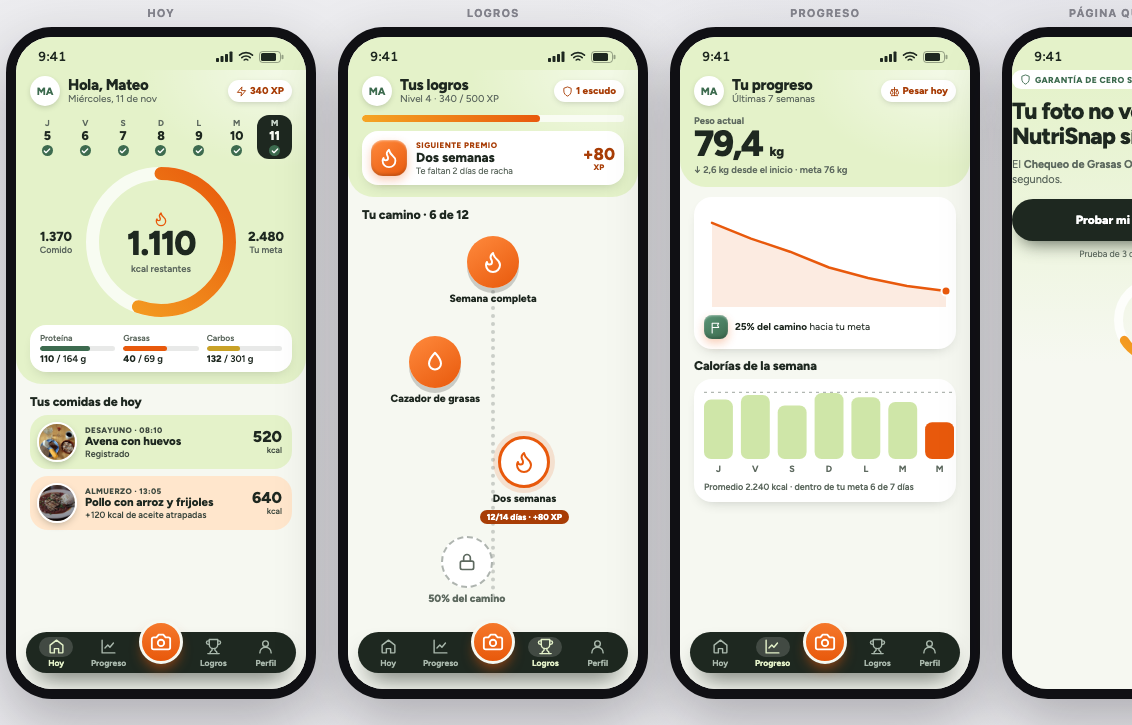
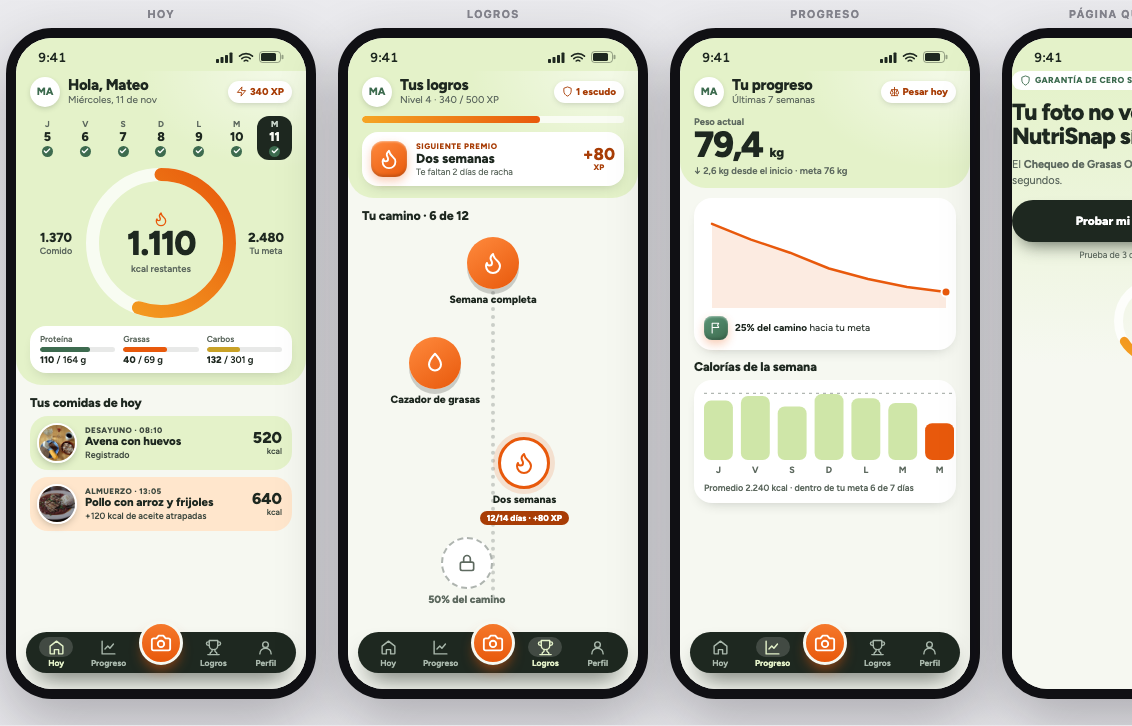
docs: combinación elegida (A + Hoy con foto + camino de logros) en la comparativa

diff --git a/direcciones-abc.html b/direcciones-abc.html
@@ -251,6 +251,49 @@
 .op-c .land .cta{background:var(--lim);color:#0F2A21;border-radius:16px;font-weight:700;font-size:12px;height:44px;margin-top:14px;box-shadow:0 12px 22px -10px rgb(215 242 92/.6)}
 .op-c .land .bl{display:grid;grid-template-columns:1.2fr 1fr;gap:8px;margin-top:20px}.op-c .land .bl div{border-radius:22px;padding:12px;font-size:9px;font-weight:600;color:#0F2A21}.op-c .land .bl b{display:block;font-size:26px;letter-spacing:-.05em;line-height:1}
 .op-c .land .b1{background:var(--cor)}.op-c .land .b2{background:#F3EEDC}
+
+.op-ab.foto .statusbar{position:absolute;left:0;right:0;top:0;z-index:5;color:#fff;background:transparent}
+.op-ab .pantalla{position:relative}
+.op-ab .foto-b{height:250px;background-size:cover;background-position:center;color:#fff;display:flex;flex-direction:column;justify-content:space-between;padding:38px 14px 28px}
+.op-ab .top-b{display:flex;justify-content:space-between;align-items:center}.op-ab .saludo{font-size:14px;font-weight:800;letter-spacing:-.02em}
+.op-ab .xpb{display:inline-flex;align-items:center;gap:3px;background:#fff;color:#A83D06;font-size:10px;font-weight:800;border-radius:99px;padding:5px 8px}
+.op-ab .num-b .k{font-size:10px;font-weight:600;opacity:.92}.op-ab .num-b .big{font-size:46px;font-weight:800;letter-spacing:-.05em;line-height:1}.op-ab .num-b .big small{font-size:15px;letter-spacing:0;font-weight:700}
+.op-ab .barra{height:6px;border-radius:9px;background:rgb(255 255 255/.3);margin-top:7px}.op-ab .barra u{display:block;height:100%;border-radius:9px;background:linear-gradient(90deg,#F5A524,#E8590C)}
+.op-ab .num-b .s{font-size:9.5px;opacity:.92;margin-top:4px;font-weight:600}
+.op-ab .hoja-b{background:var(--bg);margin-top:-18px;border-radius:26px 26px 0 0;padding:10px 14px 0;position:relative;flex:1}
+.op-ab .racha-fila{display:flex;align-items:center;gap:7px;background:linear-gradient(135deg,#FFF3E6,#FBE6CF);border:1px solid rgb(232 89 12/.25);border-radius:16px;padding:6px 9px}
+.op-ab .racha-fila span{display:flex;width:26px;height:26px;border-radius:9px;background:linear-gradient(145deg,#FF8A3D,#E8590C);align-items:center;justify-content:center}.op-ab .racha-fila b{flex:1;font-size:11.5px;font-weight:800;color:#5A2D05}.op-ab .racha-fila small{font-size:9px;font-weight:700;color:#7A4A1C}
+.op-ab .sem-b{display:grid;grid-template-columns:repeat(7,1fr);list-style:none;gap:3px;margin-top:8px}
+.op-ab .sem-b li{display:flex;flex-direction:column;align-items:center;gap:3px;font-size:8.5px;font-weight:700;color:var(--text-2)}
+.op-ab .sem-b i{display:flex;width:20px;height:20px;border-radius:99px;background:#3D6B4F;align-items:center;justify-content:center}
+.op-ab .macros-b{display:grid;grid-template-columns:repeat(3,1fr);gap:6px;margin-top:9px}
+.op-ab .mc{background:#fff;border-radius:14px;padding:6px 8px;box-shadow:0 6px 12px -8px rgb(30 40 32/.35)}
+.op-ab .mc b{display:block;font-size:13.5px;font-weight:800;letter-spacing:-.02em}.op-ab .mc small{font-size:8px;color:var(--text-2);font-weight:600}.op-ab .mc span{font-size:8.5px;color:var(--text-2);font-weight:700}
+.op-ab .mc u{display:block;height:4px;border-radius:9px;background:#E4EADD;margin-top:3px;overflow:hidden}.op-ab .mc s{display:block;height:100%;border-radius:9px}
+.op-ab .sec-b{font-size:12px;font-weight:800;margin:9px 0 3px}
+.op-ab .fila{display:flex;align-items:center;gap:9px;padding:5px 0;border-bottom:1px solid #E4EADD}
+.op-ab .fila img{width:36px;height:36px;border-radius:99px;object-fit:cover;border:2px solid #fff;box-shadow:0 3px 7px -3px rgb(30 40 32/.4)}.op-ab .fila>div{flex:1;min-width:0}
+.op-ab .fila .n{font-size:11px;font-weight:800;line-height:1.2}.op-ab .fila .s{font-size:8.5px;color:var(--text-2)}.op-ab .fila .s em{font-style:normal;color:#A83D06;font-weight:700}.op-ab .fila>b{font-size:13px;font-weight:800}
+.op-ab .foto-c{height:210px;background-size:cover;background-position:center;padding:38px 12px 0}
+.op-ab .chip-ck{display:inline-flex;align-items:center;gap:4px;background:#fff;color:#A83D06;font-size:9px;font-weight:800;border-radius:99px;padding:5px 9px}
+.op-ab .hoja-c{background:var(--bg);margin-top:-22px;border-radius:26px 26px 0 0;padding:12px 14px 0;position:relative;flex:1}
+.op-ab .hoja-c .n{font-size:15px;font-weight:800;letter-spacing:-.02em}
+.op-ab .hoja-c .kc{font-size:10px;font-weight:600;color:var(--text-2);margin-top:2px;display:flex;align-items:baseline;gap:4px;flex-wrap:wrap}.op-ab .hoja-c .kc b{font-size:30px;font-weight:800;letter-spacing:-.04em;color:var(--ink);line-height:1}
+.op-ab .hoja-c .kc em{font-style:normal;display:inline-flex;align-items:center;gap:2px;background:#E8590C;color:#fff;font-size:8.5px;font-weight:800;border-radius:99px;padding:3px 7px}
+.op-ab .preg{background:#fff;border-radius:18px;padding:10px;margin-top:9px;box-shadow:0 6px 14px -8px rgb(30 40 32/.3)}.op-ab .preg .q{font-size:11.5px;font-weight:800}
+.op-ab .pills{display:flex;gap:5px;margin-top:7px}.op-ab .pills span{flex:1;text-align:center;font-size:9px;font-weight:700;border-radius:99px;padding:7px 2px;background:#F0F4EA;color:var(--text-2)}.op-ab .pills span.sel{background:#E8590C;color:#fff;box-shadow:0 6px 10px -5px rgb(232 89 12/.8)}
+.op-ab .preg .s{font-size:8.5px;color:var(--text-2);margin-top:6px}
+.op-ab .m3{display:grid;grid-template-columns:repeat(3,1fr);gap:6px;margin-top:8px}.op-ab .m3 div{background:#E4F2C9;border-radius:14px;padding:6px;text-align:center}.op-ab .m3 b{display:block;font-size:15px;font-weight:800}.op-ab .m3 small{font-size:8px;color:#3F4A40;font-weight:700}
+.op-ab .cta-oscuro{background:#1E2820;color:#fff;border-radius:99px;font-size:11.5px;font-weight:800;height:40px;margin-top:9px;display:flex;align-items:center;justify-content:center;box-shadow:0 10px 16px -8px rgb(30 40 32/.7)}
+.op-ab .camino-w{position:relative;height:410px;margin:0 -2px}.op-ab .camino-w .trazo{position:absolute;inset:0;width:100%;height:100%}
+.op-ab .camino-w ol{list-style:none}.op-ab .camino-w li{position:absolute;transform:translate(-50%,-50%);text-align:center;width:108px}
+.op-ab .camino-w li span{position:relative;display:flex;width:54px;height:54px;border-radius:99px;margin:0 auto;align-items:center;justify-content:center}
+.op-ab .n-ok span{background:linear-gradient(145deg,#FF8A3D,#E8590C);box-shadow:0 5px 0 rgb(0 0 0/.18)}
+.op-ab .n-now span{background:#fff;border:3px solid #E8590C;box-shadow:0 0 0 5px rgb(232 89 12/.15)}
+.op-ab .n-lock span{background:#fff;border:2px dashed rgb(94 106 96/.5);color:var(--text-2)}
+.op-ab .ck{position:absolute;right:-3px;bottom:-3px;width:19px;height:19px;border-radius:99px;background:#2F5640;border:2px solid var(--bg);display:flex;align-items:center;justify-content:center}
+.op-ab .camino-w b{display:block;font-size:10.5px;font-weight:800;margin-top:4px;line-height:1.15}.op-ab .n-lock b{color:var(--text-2)}
+.op-ab .pill{display:inline-block;margin-top:3px;background:#A83D06;color:#fff;font-size:8.5px;font-weight:800;border-radius:99px;padding:2px 7px}
 </style>
 </head>
 <body>
@@ -266,7 +309,43 @@
 </header>
 <p class="aviso-fuentes">Ábrelo con conexión a internet para ver las letras. Cada panel muestra el nombre de su fuente escrito en ella misma.</p>
 <div class="opciones">
-<section class="opcion banda op-a-s" aria-label="Opción A"><div class="meta"><h2><span class="letra">A</span> Lima fresca</h2><p class="direccion">Todo parte de una cabecera de color suave con tu semana y un anillo enorme que dice cuántas calorías te quedan. Las comidas son tarjetas de colores con su foto en círculo. La barra de abajo es oscura y flotante, con el botón naranja de registrar.</p>
+<section class="opcion banda op-ab-s" aria-label="Opción B"><div class="meta"><h2><span class="letra">★</span> Tu combinación</h2><p class="direccion">Los colores y la letra de la A (lima, verde y naranja, Figtree). El Hoy con foto grande a pantalla completa como la B. Los logros como el camino que ya teníamos, que se va desbloqueando. Progreso y la página de ventas, como la A.</p>
+<p class="hipotesis"><strong>De tus referencias:</strong> ILABS (colores, letra, barra oscura) + Caltalk y Nutrilens (foto de comida protagonista en Hoy) + el camino de logros estilo Duolingo que ya aprobaste.</p>
+<p class="hipotesis"><strong>Por qué convertiría:</strong> Es la mezcla que pediste: lo que más te gustó de cada una, y se ve como una sola app en todas las pantallas.</p>
+<ul class="tokens"><li>--bg #F6F8F1 · lima #E4F2C9 · tinta #1E2820</li><li>naranja #E8590C · verde #3D6B4F · radios 18/26</li></ul><div class="paleta" aria-hidden="true"><span style="background:#E4F2C9"></span><span style="background:#F6F8F1"></span><span style="background:#1E2820"></span><span style="background:#3D6B4F"></span><span style="background:#E8590C"></span></div>
+<div class="especimen"><p class="esp-display" style="font-family:'Figtree',monospace">Figtree — AaBbÑñ 0123</p><p class="esp-body" style="font-family:'Figtree',monospace">Una sola familia redonda en 600-800: números grandes y texto amable.</p></div></div><div class="fila-frames"><div class="tel-wrap"><p class="rotulo-frame">Hoy</p><div class="telefono op-a op-ab foto"><div class="statusbar"><span>9:41</span><span class="der">
+<svg width="17" height="11" viewBox="0 0 17 11" fill="currentColor" aria-hidden="true"><rect x="0" y="7" width="3" height="4" rx="0.8"/><rect x="4.5" y="5" width="3" height="6" rx="0.8"/><rect x="9" y="3" width="3" height="8" rx="0.8"/><rect x="13.5" y="0.5" width="3" height="10.5" rx="0.8"/></svg>
+<svg width="16" height="11" viewBox="0 0 16 11" fill="none" stroke="currentColor" stroke-width="1.6" stroke-linecap="round" aria-hidden="true"><path d="M1.5 4.2a9.5 9.5 0 0 1 13 0"/><path d="M3.8 6.6a6.2 6.2 0 0 1 8.4 0"/><path d="M6.2 9a2.8 2.8 0 0 1 3.6 0"/></svg>
+<svg width="25" height="12" viewBox="0 0 25 12" aria-hidden="true"><rect x="0.5" y="0.5" width="21" height="11" rx="3" fill="none" stroke="currentColor" opacity="0.4"/><rect x="2" y="2" width="15" height="8" rx="1.6" fill="currentColor"/><rect x="22.5" y="3.8" width="2" height="4.4" rx="1" fill="currentColor" opacity="0.4"/></svg>
+</span></div><div class="pantalla"><div class="foto-b" style="background-image:linear-gradient(180deg,rgb(30 40 32/.55),rgb(30 40 32/.05) 45%,rgb(30 40 32/.8)),url(public/fotos/pollo.jpg)">
+<div class="top-b"><span class="saludo">Hola, Mateo</span><span class="xpb"><svg width="11" height="11" viewBox="0 0 24 24" fill="none" stroke="currentColor" stroke-width="2" stroke-linecap="round" stroke-linejoin="round" aria-hidden="true"><path d="M13 2 3 14h9l-1 8 10-12h-9z"/></svg>340 XP</span></div>
+<div class="num-b"><p class="k">Te quedan hoy</p><p class="big">1.110 <small>kcal</small></p><div class="barra"><u style="width:55%"></u></div><p class="s">Comiste 1.370 de 2.480 kcal</p></div></div>
+<div class="hoja-b"><div class="racha-fila"><span><svg width="15" height="15" viewBox="0 0 24 24" fill="none" stroke="#fff" stroke-width="2" stroke-linecap="round" stroke-linejoin="round" aria-hidden="true"><path d="M8.5 14.5A2.5 2.5 0 0 0 11 12c0-1.38-.5-2-1-3-1.07-2.14-.22-4.05 2-6 .5 2.5 2 4.9 4 6.5 2 1.6 3 3.5 3 5.5a7 7 0 1 1-14 0c0-1.15.43-2.29 1-3a2.5 2.5 0 0 0 2.5 2.5z"/></svg></span><b>12 días seguidos</b><small>1 escudo</small></div><ol class="sem-b"><li><b>J</b><i><svg width="9" height="9" viewBox="0 0 24 24" fill="none" stroke="#fff" stroke-width="3.5" stroke-linecap="round" stroke-linejoin="round" aria-hidden="true"><path d="M20 6 9 17l-5-5"/></svg></i></li><li><b>V</b><i><svg width="9" height="9" viewBox="0 0 24 24" fill="none" stroke="#fff" stroke-width="3.5" stroke-linecap="round" stroke-linejoin="round" aria-hidden="true"><path d="M20 6 9 17l-5-5"/></svg></i></li><li><b>S</b><i><svg width="9" height="9" viewBox="0 0 24 24" fill="none" stroke="#fff" stroke-width="3.5" stroke-linecap="round" stroke-linejoin="round" aria-hidden="true"><path d="M20 6 9 17l-5-5"/></svg></i></li><li><b>D</b><i><svg width="9" height="9" viewBox="0 0 24 24" fill="none" stroke="#fff" stroke-width="3.5" stroke-linecap="round" stroke-linejoin="round" aria-hidden="true"><path d="M20 6 9 17l-5-5"/></svg></i></li><li><b>L</b><i><svg width="9" height="9" viewBox="0 0 24 24" fill="none" stroke="#fff" stroke-width="3.5" stroke-linecap="round" stroke-linejoin="round" aria-hidden="true"><path d="M20 6 9 17l-5-5"/></svg></i></li><li><b>M</b><i><svg width="9" height="9" viewBox="0 0 24 24" fill="none" stroke="#fff" stroke-width="3.5" stroke-linecap="round" stroke-linejoin="round" aria-hidden="true"><path d="M20 6 9 17l-5-5"/></svg></i></li><li><b>M</b><i><svg width="9" height="9" viewBox="0 0 24 24" fill="none" stroke="#fff" stroke-width="3.5" stroke-linecap="round" stroke-linejoin="round" aria-hidden="true"><path d="M20 6 9 17l-5-5"/></svg></i></li></ol><div class="macros-b"><div class="mc"><b>110<small>/164 g</small></b><span>Proteína</span><u><s style="width:67%;background:#3D6B4F"></s></u></div><div class="mc"><b>40<small>/69 g</small></b><span>Grasas</span><u><s style="width:58%;background:#E8590C"></s></u></div><div class="mc"><b>132<small>/301 g</small></b><span>Carbos</span><u><s style="width:44%;background:#C9A227"></s></u></div></div><p class="sec-b">Hoy comiste</p><div class="fila"><img src="public/fotos/desayuno.jpg" alt=""><div><p class="n">Avena con huevos</p><p class="s">Desayuno · 08:10</p></div><b>520</b></div><div class="fila"><img src="public/fotos/pollo.jpg" alt=""><div><p class="n">Pollo con arroz y frijoles</p><p class="s">Almuerzo · 13:05 · <em>+120 kcal de aceite atrapadas</em></p></div><b>640</b></div><div class="fila"><img src="public/fotos/batido.jpg" alt=""><div><p class="n">Batido de proteína</p><p class="s">Merienda · 16:30</p></div><b>210</b></div></div><nav class="nav-a"><span class="on"><i><svg width="17" height="17" viewBox="0 0 24 24" fill="none" stroke="currentColor" stroke-width="2" stroke-linecap="round" stroke-linejoin="round" aria-hidden="true"><path d="m3 10 9-7 9 7v10a1 1 0 0 1-1 1h-5v-6H9v6H4a1 1 0 0 1-1-1z"/></svg></i>Hoy</span><span class=""><i><svg width="17" height="17" viewBox="0 0 24 24" fill="none" stroke="currentColor" stroke-width="2" stroke-linecap="round" stroke-linejoin="round" aria-hidden="true"><path d="M3 3v18h18"/><path d="M7 14l4-4 3 3 5-6"/></svg></i>Progreso</span><span class="fab-a"><svg width="22" height="22" viewBox="0 0 24 24" fill="none" stroke="#fff" stroke-width="2" stroke-linecap="round" stroke-linejoin="round" aria-hidden="true"><path d="M14.5 4h-5L7 7H4a2 2 0 0 0-2 2v9a2 2 0 0 0 2 2h16a2 2 0 0 0 2-2V9a2 2 0 0 0-2-2h-3z"/><circle cx="12" cy="13" r="3.5"/></svg></span><span class=""><i><svg width="17" height="17" viewBox="0 0 24 24" fill="none" stroke="currentColor" stroke-width="2" stroke-linecap="round" stroke-linejoin="round" aria-hidden="true"><path d="M6 9H4.5a2.5 2.5 0 0 1 0-5H6"/><path d="M18 9h1.5a2.5 2.5 0 0 0 0-5H18"/><path d="M4 22h16"/><path d="M10 14.66V17c0 .55-.47.98-.97 1.21C7.85 18.75 7 20.24 7 22"/><path d="M14 14.66V17c0 .55.47.98.97 1.21C16.15 18.75 17 20.24 17 22"/><path d="M18 2H6v7a6 6 0 0 0 12 0z"/></svg></i>Logros</span><span class=""><i><svg width="17" height="17" viewBox="0 0 24 24" fill="none" stroke="currentColor" stroke-width="2" stroke-linecap="round" stroke-linejoin="round" aria-hidden="true"><circle cx="12" cy="8" r="4"/><path d="M4 21a8 8 0 0 1 16 0"/></svg></i>Perfil</span></nav></div><div class="home-indicator"></div></div></div><div class="tel-wrap"><p class="rotulo-frame">El Chequeo en acción</p><div class="telefono op-a op-ab foto"><div class="statusbar"><span>9:41</span><span class="der">
+<svg width="17" height="11" viewBox="0 0 17 11" fill="currentColor" aria-hidden="true"><rect x="0" y="7" width="3" height="4" rx="0.8"/><rect x="4.5" y="5" width="3" height="6" rx="0.8"/><rect x="9" y="3" width="3" height="8" rx="0.8"/><rect x="13.5" y="0.5" width="3" height="10.5" rx="0.8"/></svg>
+<svg width="16" height="11" viewBox="0 0 16 11" fill="none" stroke="currentColor" stroke-width="1.6" stroke-linecap="round" aria-hidden="true"><path d="M1.5 4.2a9.5 9.5 0 0 1 13 0"/><path d="M3.8 6.6a6.2 6.2 0 0 1 8.4 0"/><path d="M6.2 9a2.8 2.8 0 0 1 3.6 0"/></svg>
+<svg width="25" height="12" viewBox="0 0 25 12" aria-hidden="true"><rect x="0.5" y="0.5" width="21" height="11" rx="3" fill="none" stroke="currentColor" opacity="0.4"/><rect x="2" y="2" width="15" height="8" rx="1.6" fill="currentColor"/><rect x="22.5" y="3.8" width="2" height="4.4" rx="1" fill="currentColor" opacity="0.4"/></svg>
+</span></div><div class="pantalla"><div class="foto-c" style="background-image:linear-gradient(180deg,rgb(30 40 32/.45),rgb(30 40 32/0) 40%),url(public/fotos/pollo.jpg)"><span class="chip-ck"><svg width="11" height="11" viewBox="0 0 24 24" fill="none" stroke="#E8590C" stroke-width="2" stroke-linecap="round" stroke-linejoin="round" aria-hidden="true"><path d="M12 2.7s6 6.3 6 10.8a6 6 0 0 1-12 0c0-4.5 6-10.8 6-10.8z"/></svg>Chequeo de Grasas Ocultas</span></div>
+<div class="hoja-c"><p class="n">Pollo con arroz y frijoles</p><p class="kc"><b>640</b> kcal <em><svg width="10" height="10" viewBox="0 0 24 24" fill="none" stroke="#fff" stroke-width="3" stroke-linecap="round" stroke-linejoin="round" aria-hidden="true"><path d="M12 5v14M5 12h14"/></svg>120 de aceite atrapadas</em></p>
+<div class="preg"><p class="q">¿Cuánto aceite usaste al cocinar?</p><div class="pills"><span class="">Nada</span><span class="">1 cucharada</span><span class="sel">2 cucharadas</span></div><p class="s">Te lo preguntamos porque la foto no puede verlo.</p></div>
+<div class="m3"><div><b>52</b><small>Proteína g</small></div><div><b>62</b><small>Carbos g</small></div><div><b>18</b><small>Grasas g</small></div></div>
+<div class="cta-oscuro">Guardar comida · +10 XP</div></div><nav class="nav-a"><span class="on"><i><svg width="17" height="17" viewBox="0 0 24 24" fill="none" stroke="currentColor" stroke-width="2" stroke-linecap="round" stroke-linejoin="round" aria-hidden="true"><path d="m3 10 9-7 9 7v10a1 1 0 0 1-1 1h-5v-6H9v6H4a1 1 0 0 1-1-1z"/></svg></i>Hoy</span><span class=""><i><svg width="17" height="17" viewBox="0 0 24 24" fill="none" stroke="currentColor" stroke-width="2" stroke-linecap="round" stroke-linejoin="round" aria-hidden="true"><path d="M3 3v18h18"/><path d="M7 14l4-4 3 3 5-6"/></svg></i>Progreso</span><span class="fab-a"><svg width="22" height="22" viewBox="0 0 24 24" fill="none" stroke="#fff" stroke-width="2" stroke-linecap="round" stroke-linejoin="round" aria-hidden="true"><path d="M14.5 4h-5L7 7H4a2 2 0 0 0-2 2v9a2 2 0 0 0 2 2h16a2 2 0 0 0 2-2V9a2 2 0 0 0-2-2h-3z"/><circle cx="12" cy="13" r="3.5"/></svg></span><span class=""><i><svg width="17" height="17" viewBox="0 0 24 24" fill="none" stroke="currentColor" stroke-width="2" stroke-linecap="round" stroke-linejoin="round" aria-hidden="true"><path d="M6 9H4.5a2.5 2.5 0 0 1 0-5H6"/><path d="M18 9h1.5a2.5 2.5 0 0 0 0-5H18"/><path d="M4 22h16"/><path d="M10 14.66V17c0 .55-.47.98-.97 1.21C7.85 18.75 7 20.24 7 22"/><path d="M14 14.66V17c0 .55.47.98.97 1.21C16.15 18.75 17 20.24 17 22"/><path d="M18 2H6v7a6 6 0 0 0 12 0z"/></svg></i>Logros</span><span class=""><i><svg width="17" height="17" viewBox="0 0 24 24" fill="none" stroke="currentColor" stroke-width="2" stroke-linecap="round" stroke-linejoin="round" aria-hidden="true"><circle cx="12" cy="8" r="4"/><path d="M4 21a8 8 0 0 1 16 0"/></svg></i>Perfil</span></nav></div><div class="home-indicator"></div></div></div><div class="tel-wrap"><p class="rotulo-frame">Logros</p><div class="telefono op-a op-ab"><div class="statusbar"><span>9:41</span><span class="der">
+<svg width="17" height="11" viewBox="0 0 17 11" fill="currentColor" aria-hidden="true"><rect x="0" y="7" width="3" height="4" rx="0.8"/><rect x="4.5" y="5" width="3" height="6" rx="0.8"/><rect x="9" y="3" width="3" height="8" rx="0.8"/><rect x="13.5" y="0.5" width="3" height="10.5" rx="0.8"/></svg>
+<svg width="16" height="11" viewBox="0 0 16 11" fill="none" stroke="currentColor" stroke-width="1.6" stroke-linecap="round" aria-hidden="true"><path d="M1.5 4.2a9.5 9.5 0 0 1 13 0"/><path d="M3.8 6.6a6.2 6.2 0 0 1 8.4 0"/><path d="M6.2 9a2.8 2.8 0 0 1 3.6 0"/></svg>
+<svg width="25" height="12" viewBox="0 0 25 12" aria-hidden="true"><rect x="0.5" y="0.5" width="21" height="11" rx="3" fill="none" stroke="currentColor" opacity="0.4"/><rect x="2" y="2" width="15" height="8" rx="1.6" fill="currentColor"/><rect x="22.5" y="3.8" width="2" height="4.4" rx="1" fill="currentColor" opacity="0.4"/></svg>
+</span></div><div class="pantalla"><div class="head-a h2"><div class="top-a"><span class="av">MA</span><div><h3>Tus logros</h3><p>Nivel 4 · 340 / 500 XP</p></div><span class="xp"><svg width="11" height="11" viewBox="0 0 24 24" fill="none" stroke="currentColor" stroke-width="2" stroke-linecap="round" stroke-linejoin="round" aria-hidden="true"><path d="M12 2 4 5v6c0 5 3.4 9.4 8 11 4.6-1.6 8-6 8-11V5z"/></svg>1 escudo</span></div>
+<div class="sig-a"><span class="chip3d"><svg width="22" height="22" viewBox="0 0 24 24" fill="none" stroke="#fff" stroke-width="2" stroke-linecap="round" stroke-linejoin="round" aria-hidden="true"><path d="M8.5 14.5A2.5 2.5 0 0 0 11 12c0-1.38-.5-2-1-3-1.07-2.14-.22-4.05 2-6 .5 2.5 2 4.9 4 6.5 2 1.6 3 3.5 3 5.5a7 7 0 1 1-14 0c0-1.15.43-2.29 1-3a2.5 2.5 0 0 0 2.5 2.5z"/></svg></span><div><p class="k">Siguiente premio</p><p class="n">Dos semanas</p><p class="s">Te faltan 2 días de racha</p></div><b>+80<small>XP</small></b></div></div>
+<div class="cuerpo-a"><p class="sec-a">Tu camino · 6 de 12</p><div class="camino-w"><svg viewBox="0 0 300 414" class="trazo" aria-hidden="true"><path d="M150 36 C150 81.1, 78 72.9, 78 118" fill="none" stroke-linecap="round" stroke="#F6B073" stroke-width="8" /><path d="M78 118 C78 163.1, 150 154.9, 150 200" fill="none" stroke-linecap="round" stroke="#F6B073" stroke-width="8" /><path d="M150 200 C150 245.1, 222 236.9, 222 282" fill="none" stroke-linecap="round" stroke="rgb(120 130 124/.3)" stroke-width="6" stroke-dasharray="2 12"/><path d="M222 282 C222 327.1, 150 318.9, 150 364" fill="none" stroke-linecap="round" stroke="rgb(120 130 124/.3)" stroke-width="6" stroke-dasharray="2 12"/></svg><ol><li class="n-ok" style="left:50.0%;top:36px"><span><svg width="24" height="24" viewBox="0 0 24 24" fill="none" stroke="#fff" stroke-width="2" stroke-linecap="round" stroke-linejoin="round" aria-hidden="true"><path d="M8.5 14.5A2.5 2.5 0 0 0 11 12c0-1.38-.5-2-1-3-1.07-2.14-.22-4.05 2-6 .5 2.5 2 4.9 4 6.5 2 1.6 3 3.5 3 5.5a7 7 0 1 1-14 0c0-1.15.43-2.29 1-3a2.5 2.5 0 0 0 2.5 2.5z"/></svg><i class="ck"><svg width="10" height="10" viewBox="0 0 24 24" fill="none" stroke="#fff" stroke-width="3.6" stroke-linecap="round" stroke-linejoin="round" aria-hidden="true"><path d="M20 6 9 17l-5-5"/></svg></i></span><b>Semana completa</b></li><li class="n-ok" style="left:26.0%;top:118px"><span><svg width="24" height="24" viewBox="0 0 24 24" fill="none" stroke="#fff" stroke-width="2" stroke-linecap="round" stroke-linejoin="round" aria-hidden="true"><path d="M12 2.7s6 6.3 6 10.8a6 6 0 0 1-12 0c0-4.5 6-10.8 6-10.8z"/></svg><i class="ck"><svg width="10" height="10" viewBox="0 0 24 24" fill="none" stroke="#fff" stroke-width="3.6" stroke-linecap="round" stroke-linejoin="round" aria-hidden="true"><path d="M20 6 9 17l-5-5"/></svg></i></span><b>Cazador de grasas</b></li><li class="n-now" style="left:50.0%;top:200px"><span><svg width="24" height="24" viewBox="0 0 24 24" fill="none" stroke="#E8590C" stroke-width="2" stroke-linecap="round" stroke-linejoin="round" aria-hidden="true"><path d="M8.5 14.5A2.5 2.5 0 0 0 11 12c0-1.38-.5-2-1-3-1.07-2.14-.22-4.05 2-6 .5 2.5 2 4.9 4 6.5 2 1.6 3 3.5 3 5.5a7 7 0 1 1-14 0c0-1.15.43-2.29 1-3a2.5 2.5 0 0 0 2.5 2.5z"/></svg></span><b>Dos semanas</b><small class="pill">12/14 días · +80 XP</small></li><li class="n-lock" style="left:74.0%;top:282px"><span><svg width="20" height="20" viewBox="0 0 24 24" fill="none" stroke="currentColor" stroke-width="2" stroke-linecap="round" stroke-linejoin="round" aria-hidden="true"><rect x="4" y="11" width="16" height="10" rx="2"/><path d="M8 11V7a4 4 0 0 1 8 0v4"/></svg></span><b>50% del camino</b></li><li class="n-lock" style="left:50.0%;top:364px"><span><svg width="20" height="20" viewBox="0 0 24 24" fill="none" stroke="currentColor" stroke-width="2" stroke-linecap="round" stroke-linejoin="round" aria-hidden="true"><rect x="4" y="11" width="16" height="10" rx="2"/><path d="M8 11V7a4 4 0 0 1 8 0v4"/></svg></span><b>Un mes seguido</b></li></ol></div></div><nav class="nav-a"><span class=""><i><svg width="17" height="17" viewBox="0 0 24 24" fill="none" stroke="currentColor" stroke-width="2" stroke-linecap="round" stroke-linejoin="round" aria-hidden="true"><path d="m3 10 9-7 9 7v10a1 1 0 0 1-1 1h-5v-6H9v6H4a1 1 0 0 1-1-1z"/></svg></i>Hoy</span><span class=""><i><svg width="17" height="17" viewBox="0 0 24 24" fill="none" stroke="currentColor" stroke-width="2" stroke-linecap="round" stroke-linejoin="round" aria-hidden="true"><path d="M3 3v18h18"/><path d="M7 14l4-4 3 3 5-6"/></svg></i>Progreso</span><span class="fab-a"><svg width="22" height="22" viewBox="0 0 24 24" fill="none" stroke="#fff" stroke-width="2" stroke-linecap="round" stroke-linejoin="round" aria-hidden="true"><path d="M14.5 4h-5L7 7H4a2 2 0 0 0-2 2v9a2 2 0 0 0 2 2h16a2 2 0 0 0 2-2V9a2 2 0 0 0-2-2h-3z"/><circle cx="12" cy="13" r="3.5"/></svg></span><span class="on"><i><svg width="17" height="17" viewBox="0 0 24 24" fill="none" stroke="currentColor" stroke-width="2" stroke-linecap="round" stroke-linejoin="round" aria-hidden="true"><path d="M6 9H4.5a2.5 2.5 0 0 1 0-5H6"/><path d="M18 9h1.5a2.5 2.5 0 0 0 0-5H18"/><path d="M4 22h16"/><path d="M10 14.66V17c0 .55-.47.98-.97 1.21C7.85 18.75 7 20.24 7 22"/><path d="M14 14.66V17c0 .55.47.98.97 1.21C16.15 18.75 17 20.24 17 22"/><path d="M18 2H6v7a6 6 0 0 0 12 0z"/></svg></i>Logros</span><span class=""><i><svg width="17" height="17" viewBox="0 0 24 24" fill="none" stroke="currentColor" stroke-width="2" stroke-linecap="round" stroke-linejoin="round" aria-hidden="true"><circle cx="12" cy="8" r="4"/><path d="M4 21a8 8 0 0 1 16 0"/></svg></i>Perfil</span></nav></div><div class="home-indicator"></div></div></div><div class="tel-wrap"><p class="rotulo-frame">Progreso</p><div class="telefono op-a"><div class="statusbar"><span>9:41</span><span class="der">
+<svg width="17" height="11" viewBox="0 0 17 11" fill="currentColor" aria-hidden="true"><rect x="0" y="7" width="3" height="4" rx="0.8"/><rect x="4.5" y="5" width="3" height="6" rx="0.8"/><rect x="9" y="3" width="3" height="8" rx="0.8"/><rect x="13.5" y="0.5" width="3" height="10.5" rx="0.8"/></svg>
+<svg width="16" height="11" viewBox="0 0 16 11" fill="none" stroke="currentColor" stroke-width="1.6" stroke-linecap="round" aria-hidden="true"><path d="M1.5 4.2a9.5 9.5 0 0 1 13 0"/><path d="M3.8 6.6a6.2 6.2 0 0 1 8.4 0"/><path d="M6.2 9a2.8 2.8 0 0 1 3.6 0"/></svg>
+<svg width="25" height="12" viewBox="0 0 25 12" aria-hidden="true"><rect x="0.5" y="0.5" width="21" height="11" rx="3" fill="none" stroke="currentColor" opacity="0.4"/><rect x="2" y="2" width="15" height="8" rx="1.6" fill="currentColor"/><rect x="22.5" y="3.8" width="2" height="4.4" rx="1" fill="currentColor" opacity="0.4"/></svg>
+</span></div><div class="pantalla"><div class="head-a h2"><div class="top-a"><span class="av">MA</span><div><h3>Tu progreso</h3><p>Últimas 7 semanas</p></div><span class="xp"><svg width="11" height="11" viewBox="0 0 24 24" fill="none" stroke="currentColor" stroke-width="2" stroke-linecap="round" stroke-linejoin="round" aria-hidden="true"><path d="M12 3v18M5 21h14M6 8l-3 7a3 3 0 0 0 6 0zM18 8l-3 7a3 3 0 0 0 6 0zM6 8h12"/></svg>Pesar hoy</span></div>
+<div class="peso-a"><p class="k">Peso actual</p><p class="big">79,4 <small>kg</small></p><p class="s">↓ 2,6 kg desde el inicio · meta 76 kg</p></div></div>
+<div class="cuerpo-a"><div class="card-a"><svg width="250" height="100" viewBox="0 0 250 100" aria-hidden="true"><path d="M8.0 15.9 L47.0 31.6 L86.0 44.7 L125.0 60.5 L164.0 71.0 L203.0 78.9 L242.0 84.1 L242.0 100 L8.0 100 Z" fill="rgb(232 89 12/.12)"/><path d="M8.0 15.9 L47.0 31.6 L86.0 44.7 L125.0 60.5 L164.0 71.0 L203.0 78.9 L242.0 84.1" fill="none" stroke="#E8590C" stroke-width="2.5" stroke-linecap="round" stroke-linejoin="round"/><circle cx="242.0" cy="84.1" r="4.5" fill="#E8590C" stroke="#fff" stroke-width="2"/></svg><div class="mini"><span class="chip3d sm"><svg width="13" height="13" viewBox="0 0 24 24" fill="none" stroke="#fff" stroke-width="2" stroke-linecap="round" stroke-linejoin="round" aria-hidden="true"><path d="M4 22V4M4 4h12l-2 4 2 4H4"/></svg></span><p><b>25% del camino</b> hacia tu meta</p></div></div>
+<p class="sec-a">Calorías de la semana</p><div class="card-a"><svg width="250" height="86" viewBox="0 0 250 86" aria-hidden="true"><rect x="0.0" y="10.6" width="28.9" height="59.4" rx="7.0" fill="#CFE6A8"/><text x="14.4" y="83" text-anchor="middle" font-size="9" font-weight="700" fill="#5E6A60">J</text><rect x="36.9" y="6.0" width="28.9" height="64.0" rx="7.0" fill="#CFE6A8"/><text x="51.3" y="83" text-anchor="middle" font-size="9" font-weight="700" fill="#5E6A60">V</text><rect x="73.7" y="16.5" width="28.9" height="53.5" rx="7.0" fill="#CFE6A8"/><text x="88.1" y="83" text-anchor="middle" font-size="9" font-weight="700" fill="#5E6A60">S</text><rect x="110.6" y="4.1" width="28.9" height="65.9" rx="7.0" fill="#CFE6A8"/><text x="125.0" y="83" text-anchor="middle" font-size="9" font-weight="700" fill="#5E6A60">D</text><rect x="147.4" y="8.2" width="28.9" height="61.8" rx="7.0" fill="#CFE6A8"/><text x="161.9" y="83" text-anchor="middle" font-size="9" font-weight="700" fill="#5E6A60">L</text><rect x="184.3" y="13.0" width="28.9" height="57.0" rx="7.0" fill="#CFE6A8"/><text x="198.7" y="83" text-anchor="middle" font-size="9" font-weight="700" fill="#5E6A60">M</text><rect x="221.1" y="33.2" width="28.9" height="36.8" rx="7.0" fill="#E8590C"/><text x="235.6" y="83" text-anchor="middle" font-size="9" font-weight="700" fill="#5E6A60">M</text><line x1="0" x2="250" y1="3.3" y2="3.3" stroke="#5E6A60" stroke-width="1" stroke-dasharray="3 4" opacity=".6"/></svg><p class="s">Promedio 2.240 kcal · dentro de tu meta 6 de 7 días</p></div></div><nav class="nav-a"><span class=""><i><svg width="17" height="17" viewBox="0 0 24 24" fill="none" stroke="currentColor" stroke-width="2" stroke-linecap="round" stroke-linejoin="round" aria-hidden="true"><path d="m3 10 9-7 9 7v10a1 1 0 0 1-1 1h-5v-6H9v6H4a1 1 0 0 1-1-1z"/></svg></i>Hoy</span><span class="on"><i><svg width="17" height="17" viewBox="0 0 24 24" fill="none" stroke="currentColor" stroke-width="2" stroke-linecap="round" stroke-linejoin="round" aria-hidden="true"><path d="M3 3v18h18"/><path d="M7 14l4-4 3 3 5-6"/></svg></i>Progreso</span><span class="fab-a"><svg width="22" height="22" viewBox="0 0 24 24" fill="none" stroke="#fff" stroke-width="2" stroke-linecap="round" stroke-linejoin="round" aria-hidden="true"><path d="M14.5 4h-5L7 7H4a2 2 0 0 0-2 2v9a2 2 0 0 0 2 2h16a2 2 0 0 0 2-2V9a2 2 0 0 0-2-2h-3z"/><circle cx="12" cy="13" r="3.5"/></svg></span><span class=""><i><svg width="17" height="17" viewBox="0 0 24 24" fill="none" stroke="currentColor" stroke-width="2" stroke-linecap="round" stroke-linejoin="round" aria-hidden="true"><path d="M6 9H4.5a2.5 2.5 0 0 1 0-5H6"/><path d="M18 9h1.5a2.5 2.5 0 0 0 0-5H18"/><path d="M4 22h16"/><path d="M10 14.66V17c0 .55-.47.98-.97 1.21C7.85 18.75 7 20.24 7 22"/><path d="M14 14.66V17c0 .55.47.98.97 1.21C16.15 18.75 17 20.24 17 22"/><path d="M18 2H6v7a6 6 0 0 0 12 0z"/></svg></i>Logros</span><span class=""><i><svg width="17" height="17" viewBox="0 0 24 24" fill="none" stroke="currentColor" stroke-width="2" stroke-linecap="round" stroke-linejoin="round" aria-hidden="true"><circle cx="12" cy="8" r="4"/><path d="M4 21a8 8 0 0 1 16 0"/></svg></i>Perfil</span></nav></div><div class="home-indicator"></div></div></div><div class="tel-wrap land-wrap"><p class="rotulo-frame">Página que vende tu app</p><div class="telefono op-a"><div class="statusbar"><span>9:41</span><span class="der">
+<svg width="17" height="11" viewBox="0 0 17 11" fill="currentColor" aria-hidden="true"><rect x="0" y="7" width="3" height="4" rx="0.8"/><rect x="4.5" y="5" width="3" height="6" rx="0.8"/><rect x="9" y="3" width="3" height="8" rx="0.8"/><rect x="13.5" y="0.5" width="3" height="10.5" rx="0.8"/></svg>
+<svg width="16" height="11" viewBox="0 0 16 11" fill="none" stroke="currentColor" stroke-width="1.6" stroke-linecap="round" aria-hidden="true"><path d="M1.5 4.2a9.5 9.5 0 0 1 13 0"/><path d="M3.8 6.6a6.2 6.2 0 0 1 8.4 0"/><path d="M6.2 9a2.8 2.8 0 0 1 3.6 0"/></svg>
+<svg width="25" height="12" viewBox="0 0 25 12" aria-hidden="true"><rect x="0.5" y="0.5" width="21" height="11" rx="3" fill="none" stroke="currentColor" opacity="0.4"/><rect x="2" y="2" width="15" height="8" rx="1.6" fill="currentColor"/><rect x="22.5" y="3.8" width="2" height="4.4" rx="1" fill="currentColor" opacity="0.4"/></svg>
+</span></div><div class="pantalla" style="padding:0"><div class="land land-a"><span class="badge"><svg width="11" height="11" viewBox="0 0 24 24" fill="none" stroke="currentColor" stroke-width="2" stroke-linecap="round" stroke-linejoin="round" aria-hidden="true"><path d="M12 2 4 5v6c0 5 3.4 9.4 8 11 4.6-1.6 8-6 8-11V5z"/></svg>Garantía de Cero Sorpresas</span><h4>Tu foto no ve el <em>aceite</em>. NutriSnap sí lo pregunta</h4><p>El <b>Chequeo de Grasas Ocultas</b> completa tu registro en segundos.</p><div class="cta">Probar mi primera foto gratis</div><p class="mini">Prueba de 3 días · Reembolso de 7 días</p><div class="mini-ring"><div class="ringbox s"><svg width="86" height="86" viewBox="0 0 86 86" style="position:absolute;inset:0" aria-hidden="true"><defs><linearGradient id="ga2" x1="0" y1="0" x2="1" y2="1"><stop offset="0" stop-color="#F5A524"/><stop offset="1" stop-color="#E8590C"/></linearGradient></defs><circle cx="43.0" cy="43.0" r="38.5" fill="none" stroke="rgb(255 255 255/.8)" stroke-width="9"/><circle cx="43.0" cy="43.0" r="38.5" fill="none" stroke="url(#ga2)" stroke-width="9" stroke-linecap="round" stroke-dasharray="241.9" stroke-dashoffset="82.2" transform="rotate(-90 43.0 43.0)"/></svg><div class="centro"><b>+120</b><span>kcal atrapadas</span></div></div></div></div></div><div class="home-indicator"></div></div></div></div></section><section class="opcion banda op-a-s" aria-label="Opción A"><div class="meta"><h2><span class="letra">A</span> Lima fresca</h2><p class="direccion">Todo parte de una cabecera de color suave con tu semana y un anillo enorme que dice cuántas calorías te quedan. Las comidas son tarjetas de colores con su foto en círculo. La barra de abajo es oscura y flotante, con el botón naranja de registrar.</p>
 <p class="hipotesis"><strong>De tus referencias:</strong> el video de ILABS (cabecera lima, anillo naranja, losas con foto, barra oscura) — es lo que viste antes, pero ahora igual en TODAS las pantallas.</p>
 <p class="hipotesis"><strong>Por qué convertiría:</strong> El avergonzado de contar calorías necesita sentir que va bien: el verde lima y el anillo grande premian cada comida y no regañan.</p>
 <ul class="tokens"><li>--bg #F6F8F1 · lima #E4F2C9 · tinta #1E2820</li><li>naranja #E8590C · verde #3D6B4F · radios 18/26</li></ul><div class="paleta" aria-hidden="true"><span style="background:#E4F2C9"></span><span style="background:#F6F8F1"></span><span style="background:#1E2820"></span><span style="background:#3D6B4F"></span><span style="background:#E8590C"></span></div>

diff --git a/ESTADO.md b/ESTADO.md
@@ -1,7 +1,7 @@
 # ESTADO — NutriSnap AI
 Última actualización: 2026-11-03 | Sesión actual: 3 (página de ventas) en curso
 
-⏸ CHECKPOINT (2026-11-11): Usuario NO aprobó el estilo elevado de Hoy (se mostró solo Hoy → se veía 'mezcla' con el resto; Hoy fue REVERTIDA, la app está coherente en el estilo anterior). Va OPCIÓN 2: 3 estilos A/B/C aplicados COMPLETOS (Hoy+Logros+Progreso+hero de ventas) en direcciones-abc.html (kit abc-v2; capturas docs/revisiones/direcciones-abc.png, abc-a/b/c.png): A Lima fresca (Figtree), B Foto protagonista (DM Sans), C Bloques de color (Sora, modo oscuro verde). Siguiente acción exacta: el usuario elige A/B/C, combina, pide otras 3 o ajusta; con la elegida → TOUR DE LA APP (54) → actualizar FICHA-ARTE → aplicar a TODA la app + landing + onboarding a la vez (nunca una pantalla suelta). Punto de retorno al estilo anterior: git tag punto-antes-de-elevar. IA real sin probar (clave rechazada); revisor NO LISTA en landing/onboarding/paywall/Hoy documentado.
+⏸ CHECKPOINT (2026-11-11): Usuario eligió COMBINAR: colores+letra de la A (Figtree; fondo #F6F8F1, lima #E4F2C9, tinta #1E2820, verde #3D6B4F, naranja #E8590C), HOY con foto a pantalla completa (composición de la B), LOGROS = camino sinuoso que ya teníamos (CaminoLogros), resto (Progreso, Perfil, landing…) como la A (barra oscura flotante + FAB naranja). Combinación renderizada en direcciones-abc.html (primera banda; captura docs/revisiones/abc-ab.png); la app real sigue en el estilo anterior (Hoy revertida; tag punto-antes-de-elevar). Siguiente acción exacta: esperar OK del usuario sobre la combinación → actualizar FICHA-ARTE (Figtree, tokens nuevos) y aplicar el estilo A+foto a TODA la app + landing + onboarding + paywall a la vez, verificando a 375px y re-lanzando el revisor-visual. IA real sin probar (clave rechazada); revisor NO LISTA en landing/onboarding/paywall/Hoy documentado.
 
 ## Qué es esta app
 Registro de calorías y macros por FOTO con IA + corrección por VOZ + escáner de código de barras incluido. Para gente que entrena en el gym (22-38) y quiere déficit/proteína sin pesar ni teclear. Suscripción freemium: US$6.99/mes · US$39.99/año · trial 3 días con tarjeta.
